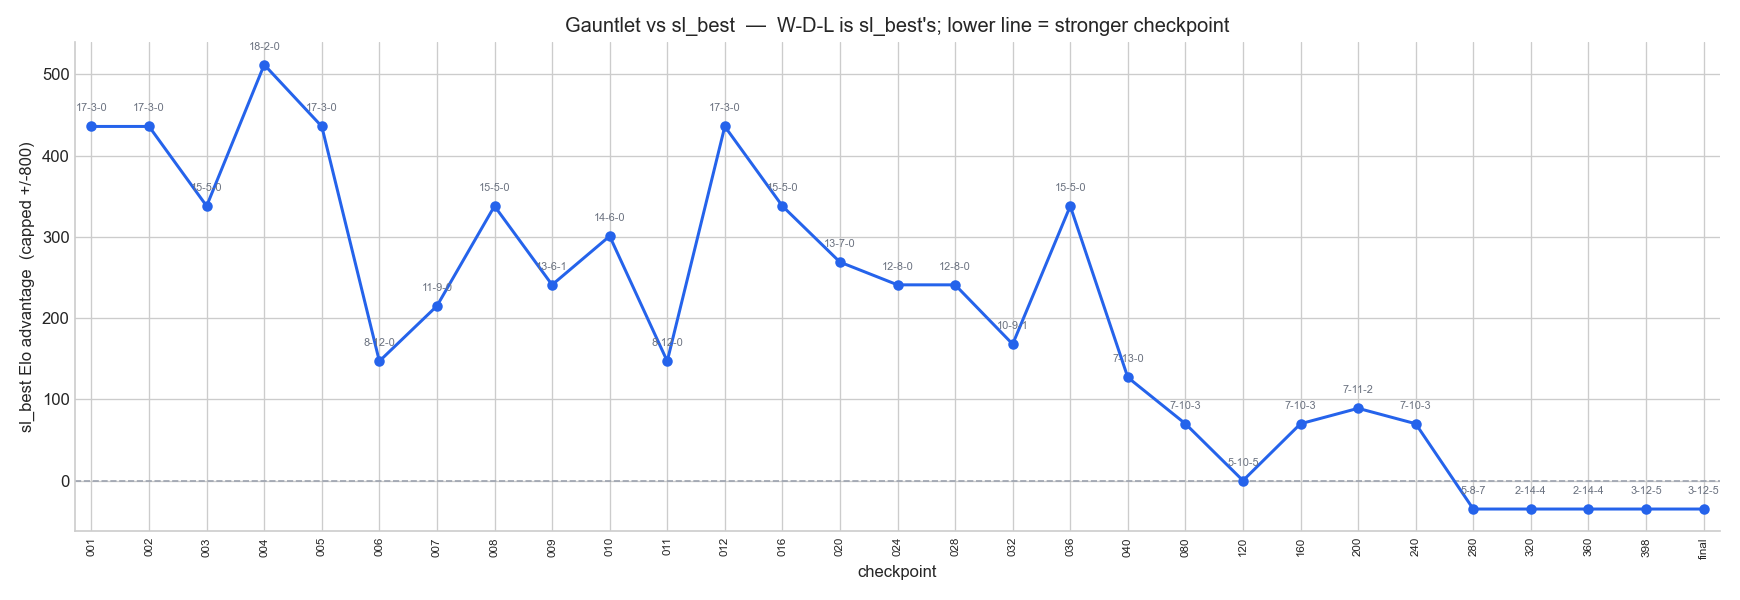
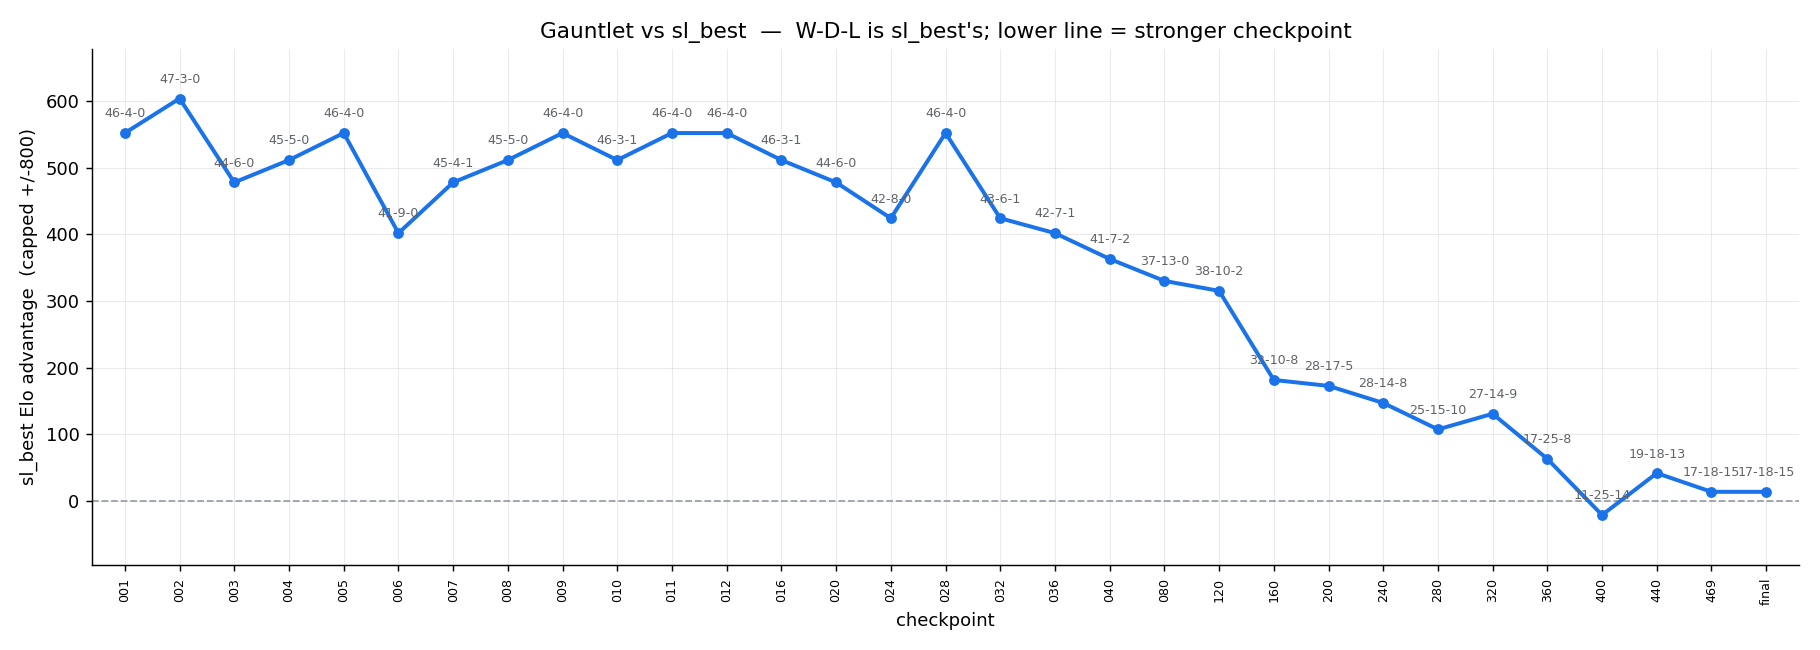
new gauntlet

diff --git a/supervised_learning/gauntlet.py b/supervised_learning/gauntlet.py
@@ -1,0 +1,227 @@
+"""
+Gauntlet: the current best supervised net vs *every* training checkpoint of its
+run, raw policy, one match each — plotted as an Elo-advantage curve.
+
+This is the "did later training help or hurt?" picture. `16_sl_best` is the net
+we kept; here it plays a full match against each `sl_XXX` snapshot of the run
+that produced it. A checkpoint that scores well against sl_best (pulling the
+line *down*) is one sl_best isn't clearly better than.
+
+Move selection is **raw** (argmax of the legal-masked policy, no search) — the
+most sensitive probe of what each net actually learned. The match machinery
+(random openings, colour-reversed pairs, PGN output, scoring) is imported
+straight from compare_nets.py so this stays a thin driver over the validated
+path; see that file and [[net-comparison-eval-workflow]].
+
+Each match is 50 games: OPENINGS random 3-ply openings, each played twice with
+colours swapped (25 * 2 = 50). The y-axis is sl_best's Elo advantage from the
+match score, elo = -400*log10(1/score - 1), capped +/-ELO_CAP.
+
+Runs are resumable: results are appended to a JSON as each checkpoint finishes,
+and re-running skips checkpoints already in it. Usage:
+
+    python supervised_learning/gauntlet.py                 # run all, skip done
+    python supervised_learning/gauntlet.py --force         # replay everything
+    python supervised_learning/gauntlet.py --only 040 120  # just these labels
+    python supervised_learning/gauntlet.py --plot-only     # rebuild plot from JSON
+
+Edit the CONFIG block below to change counts / paths.
+"""
+
+import argparse
+import json
+import math
+import os
+import re
+import sys
+
+# --- path setup (mirror compare_nets) so `import compare_nets` resolves -------
+_HERE = os.path.dirname(os.path.abspath(__file__))
+REPO_ROOT = os.path.normpath(os.path.join(_HERE, ".."))
+for _p in (REPO_ROOT, _HERE):
+    if _p not in sys.path:
+        sys.path.insert(0, _p)
+
+# ============================ CONFIG — edit, then run ============================
+BEST = os.path.join(REPO_ROOT, "16_sl_best.weights.h5")   # the net we kept
+CKPT_DIR = REPO_ROOT                                       # where sl_XXX live
+CKPT_GLOB = "sl_*.weights.h5"                              # training snapshots
+MODE = "raw"          # raw policy argmax (matches the reference graph)
+OPENINGS = 25         # 25 openings x 2 colours = 50 games per checkpoint
+OPENING_PLIES = 3     # random plies used to seed each opening
+SIMS = 150            # only used if MODE == "mcts"
+BATCH_SIZE = 16
+SEED = 7              # shared across checkpoints -> everyone faces the same openings
+ELO_CAP = 800.0       # clamp the score->Elo curve so a clean sweep isn't +inf
+SAVE_PGN = True       # keep each match's PGN (feedable to phase_acpl.py)
+OUT_DIR = os.path.join(REPO_ROOT, "supervised_learning", "results")
+RESULTS_JSON = os.path.join(OUT_DIR, "gauntlet_results.json")
+PLOT_PNG = os.path.join(OUT_DIR, "gauntlet_plot.png")
+PGN_DIR = os.path.join(OUT_DIR, "gauntlet_pgns")
+# ================================================================================
+
+# compare_nets does the path/chdir setup at import and pulls in TF; reuse its
+# validated, already-tested match code rather than duplicating it here.
+from compare_nets import load_net, run_match, save_pgn  # noqa: E402
+from helpers.converter import Converter  # noqa: E402
+
+
+def checkpoint_label(path: str) -> str:
+    """`.../sl_040.weights.h5` -> `040`, `.../sl_final.weights.h5` -> `final`."""
+    base = os.path.basename(path)
+    base = re.sub(r"\.weights\.h5$", "", base)
+    return re.sub(r"^sl_", "", base)
+
+
+def label_sort_key(label: str):
+    """Numeric checkpoints in order; non-numeric (e.g. `final`) sort to the end."""
+    return (0, int(label)) if label.isdigit() else (1, label)
+
+
+def find_checkpoints() -> list[str]:
+    import glob
+    paths = glob.glob(os.path.join(CKPT_DIR, CKPT_GLOB))
+    # exclude the reference net itself if the glob ever reaches it
+    best_base = os.path.basename(BEST)
+    paths = [p for p in paths if os.path.basename(p) != best_base]
+    return sorted(paths, key=lambda p: label_sort_key(checkpoint_label(p)))
+
+
+def elo_from_score(score: float, cap: float) -> float:
+    """sl_best's Elo advantage from its match score, clamped to +/-cap."""
+    if score <= 0.0:
+        return -cap
+    if score >= 1.0:
+        return cap
+    elo = -400.0 * math.log10(1.0 / score - 1.0)
+    return max(-cap, min(cap, elo))
+
+
+def load_results() -> dict:
+    if os.path.exists(RESULTS_JSON):
+        with open(RESULTS_JSON) as f:
+            return json.load(f)
+    return {}
+
+
+def save_results(results: dict) -> None:
+    os.makedirs(OUT_DIR, exist_ok=True)
+    with open(RESULTS_JSON, "w") as f:
+        json.dump(results, f, indent=2, sort_keys=True)
+
+
+def match_record(scores: list[float], label: str, path: str) -> dict:
+    n = len(scores)
+    wins = sum(1 for s in scores if s == 1.0)
+    draws = sum(1 for s in scores if s == 0.5)
+    losses = sum(1 for s in scores if s == 0.0)
+    score = sum(scores) / n if n else 0.0
+    return {
+        "label": label,
+        "path": os.path.relpath(path, REPO_ROOT).replace("\\", "/"),
+        "games": n,
+        "wins": wins,
+        "draws": draws,
+        "losses": losses,
+        "score": score,
+        "elo": elo_from_score(score, ELO_CAP),
+    }
+
+
+def make_plot(results: dict, out_png: str) -> None:
+    import matplotlib
+    matplotlib.use("Agg")
+    import matplotlib.pyplot as plt
+
+    labels = sorted(results, key=label_sort_key)
+    xs = list(range(len(labels)))
+    elos = [results[l]["elo"] for l in labels]
+
+    fig, ax = plt.subplots(figsize=(14, 5))
+    ax.axhline(0.0, ls="--", lw=1, color="#9aa0a6")
+    ax.plot(xs, elos, "-o", color="#1a73e8", lw=2.2, markersize=5,
+            markerfacecolor="#1a73e8", markeredgecolor="#1a73e8")
+
+    for x, l in zip(xs, labels):
+        r = results[l]
+        ax.annotate(f"{r['wins']}-{r['draws']}-{r['losses']}", (x, r["elo"]),
+                    textcoords="offset points", xytext=(0, 7),
+                    ha="center", va="bottom", fontsize=7, color="#5f6368")
+
+    ax.set_xticks(xs)
+    ax.set_xticklabels(labels, rotation=90, fontsize=7)
+    ax.set_xlabel("checkpoint")
+    ax.set_ylabel(f"sl_best Elo advantage  (capped +/-{int(ELO_CAP)})")
+    ax.set_title("Gauntlet vs sl_best  —  W-D-L is sl_best's; "
+                 "lower line = stronger checkpoint")
+    ax.grid(True, axis="both", alpha=0.25, lw=0.6)
+    ax.margins(x=0.02, y=0.12)
+    for spine in ("top", "right"):
+        ax.spines[spine].set_visible(False)
+
+    fig.tight_layout()
+    os.makedirs(os.path.dirname(out_png), exist_ok=True)
+    fig.savefig(out_png, dpi=130)
+    print(f"  wrote {out_png}")
+
+
+def main():
+    ap = argparse.ArgumentParser(description="Best-net gauntlet vs training checkpoints.")
+    ap.add_argument("--force", action="store_true",
+                    help="replay checkpoints already present in the results JSON")
+    ap.add_argument("--plot-only", action="store_true",
+                    help="rebuild the plot from the results JSON without playing")
+    ap.add_argument("--only", nargs="+", metavar="LABEL",
+                    help="only these checkpoint labels, e.g. --only 040 120 final")
+    args = ap.parse_args()
+
+    results = load_results()
+
+    if args.plot_only:
+        if not results:
+            sys.exit(f"no results in {RESULTS_JSON} to plot")
+        make_plot(results, PLOT_PNG)
+        return
+
+    checkpoints = find_checkpoints()
+    if args.only:
+        wanted = set(args.only)
+        checkpoints = [p for p in checkpoints if checkpoint_label(p) in wanted]
+    if not checkpoints:
+        sys.exit(f"no checkpoints matched {CKPT_GLOB} in {CKPT_DIR}")
+
+    print(f"Loading best net: {BEST}")
+    best = load_net(BEST)
+    converter = Converter()
+
+    for i, ckpt in enumerate(checkpoints, 1):
+        label = checkpoint_label(ckpt)
+        if label in results and not args.force:
+            r = results[label]
+            print(f"[{i}/{len(checkpoints)}] {label}: cached "
+                  f"({r['wins']}-{r['draws']}-{r['losses']}, Elo {r['elo']:+.0f}) — skip")
+            continue
+
+        print(f"\n[{i}/{len(checkpoints)}] === sl_best vs {label} "
+              f"({MODE}, {OPENINGS} openings -> {2 * OPENINGS} games) ===")
+        net = load_net(ckpt)
+        # A = best, B = checkpoint; run_match returns A's (=best's) scores.
+        best_scores, games = run_match(
+            best, net, "sl_best", label, converter, MODE, SIMS,
+            BATCH_SIZE, OPENINGS, OPENING_PLIES, SEED,
+        )
+        rec = match_record(best_scores, label, ckpt)
+        results[label] = rec
+        save_results(results)  # checkpoint-by-checkpoint so a crash loses at most one
+        print(f"  -> sl_best {rec['wins']}-{rec['draws']}-{rec['losses']}  "
+              f"score {rec['score']:.3f}  Elo {rec['elo']:+.0f}")
+
+        if SAVE_PGN:
+            save_pgn(games, os.path.join(PGN_DIR, f"sl_best_vs_{label}.pgn"))
+
+    make_plot(results, PLOT_PNG)
+    print(f"\nDone. Results: {RESULTS_JSON}")
+
+
+if __name__ == "__main__":
+    main()

diff --git a/test.py b/test.py
@@ -1,0 +1,119 @@
+import chess, numpy as np
+from helpers.converter import Converter
+from monte_carlo_tree_search.mcts_v2 import MCTS
+from monte_carlo_tree_search.nodes_and_edges_v2 import Node
+
+def _ctx():
+    net = globals().get("_NET")
+    if net is None:
+        raise RuntimeError("Run the play() cell first so _NET is set.")
+    return net, (getattr(net, "_search_converter", None) or Converter())
+
+def _val(net, conv, board):
+    """Value head: (scalar win-loss, wdl) from side-to-move perspective."""
+    _, wdl = net.predict(conv.board_to_input_tensor(board))
+    wdl = np.asarray(wdl, float)
+    return float(wdl[0] - wdl[2]), wdl
+
+def _search(net, conv, board, sims, c_puct, bs=16):
+    mcts = MCTS(network=net, converter=conv, num_simulations=sims, c_puct=c_puct)
+    r = Node(board.copy())
+    mcts.search_batched(r, add_noise=False, batch_size=bs)
+    return r
+
+def _parse(board, mv):
+    try: return board.parse_san(mv)
+    except ValueError: return chess.Move.from_uci(mv)
+
+def _pv(net, conv, board, node, depth):
+    """Most-visited path: per-ply move, visits, backed-up Q, raw value head."""
+    line, b = [], board.copy()
+    for _ in range(depth):
+        if not node.edges: break
+        e = max(node.edges, key=lambda x: x.N)
+        raw, _ = _val(net, conv, b)
+        line.append(dict(san=b.san(e.move), N=e.N, Q=e.Q, raw=raw))
+        b.push(e.move); node = e.child_node
+        if node is None: break
+    return line
+
+def _print_pv(title, line):
+    print(title)
+    print(f"    {'mv':<7}{'N':>6}{'Q(search)':>11}{'raw(value)':>12}   note")
+    for p in line:
+        disagree = abs(p['Q'])>0.15 and abs(p['raw'])>0.15 and (p['Q']>0)!=(p['raw']>0)
+        note = "<-- value head & search DISAGREE" if disagree else ""
+        print(f"    {p['san']:<7}{p['N']:>6}{p['Q']:>+11.3f}{p['raw']:>+12.3f}   {note}")
+
+def analyze(fen, blunder=None, c_pucts=(0.5,1.5,3.0,6.0), sims=(100,400,1000),
+            deep_c_puct=1.5, deep_sims=1000, top=10, pv_depth=10, bs=16):
+    net, conv = _ctx()
+    base = chess.Board(fen)
+    bmove = _parse(base, blunder) if blunder else None
+    turn = "White" if base.turn else "Black"
+
+    # ---- static root read ----
+    v0, wdl0 = _val(net, conv, base)
+    print("="*74)
+    print(f"{turn} to move   FEN {fen}")
+    print(f"value head  W/D/L {wdl0[0]*100:4.0f}/{wdl0[1]*100:4.0f}/{wdl0[2]*100:4.0f}"
+          f"   scalar {v0:+.3f}")
+    r0 = Node(base.copy()); r0.expand(net, conv)
+    pol = sorted(r0.edges, key=lambda e: e.P, reverse=True)
+    print("\npolicy head — top priors:")
+    for e in pol[:top]:
+        tag = "  <-- BLUNDER" if bmove and e.move==bmove else ""
+        print(f"    {base.san(e.move):<7}{e.P*100:5.1f}%{tag}")
+    if bmove and bmove not in [e.move for e in pol[:top]]:
+        be = next(e for e in pol if e.move==bmove)
+        print(f"    ... blunder {base.san(bmove)} ranks {pol.index(be)+1}/{len(pol)}"
+              f" at {be.P*100:.2f}%")
+
+    # ---- sweep grid ----
+    if bmove:
+        print("\n" + "="*74)
+        print("SWEEP  c_puct (rows) x sims (cols)")
+        print("cell = chosenMove | blunderN%/blunderQ   ('*' = blunder was chosen)\n")
+        corner = "cpuct|sims"
+        head = f"{corner:>10}" + "".join(f"{s:>23d}" for s in sims)
+        print(head); print("-"*len(head))
+        for c in c_pucts:
+            row = f"{c:>10.2f}"
+            for s in sims:
+                r = _search(net, conv, base, s, c, bs)
+                tot = sum(e.N for e in r.edges) or 1
+                best = max(r.edges, key=lambda e: e.N)
+                be = next((e for e in r.edges if e.move==bmove), None)
+                npct = 100*be.N/tot if be else 0.0
+                q = be.Q if be else float("nan")
+                star = "*" if (be and best.move==bmove) else ""
+                row += f"{base.san(best.move)+'|'+f'{npct:3.0f}%/{q:+.2f}'+star:>23}"
+            print(row)
+
+    # ---- deep dive ----
+    print("\n" + "="*74)
+    print(f"DEEP DIVE  c_puct={deep_c_puct}  sims={deep_sims}")
+    root = _search(net, conv, base, deep_sims, deep_c_puct, bs)
+    edges = sorted(root.edges, key=lambda e: e.N, reverse=True)
+    tot = sum(e.N for e in edges) or 1
+    print(f"\nroot edges (top {top}):  move / N / N% / Q / P")
+    for e in edges[:top]:
+        tag = "  <-- BLUNDER" if bmove and e.move==bmove else ""
+        print(f"    {base.san(e.move):<7}{e.N:6d}{100*e.N/tot:6.1f}%"
+              f"{e.Q:+8.3f}{e.P*100:6.1f}%{tag}")
+
+    print()
+    _print_pv("PRINCIPAL VARIATION (search's chosen line):",
+              _pv(net, conv, base, root, pv_depth))
+
+    if bmove:
+        be = next((e for e in root.edges if e.move==bmove), None)
+        if be and be.child_node is not None:
+            b2 = base.copy(); b2.push(bmove)
+            head = [dict(san=base.san(bmove), N=be.N, Q=be.Q, raw=v0)]
+            print()
+            _print_pv(f"LINE AFTER THE BLUNDER {base.san(bmove)} — what search expects:",
+                      head + _pv(net, conv, b2, be.child_node, pv_depth-1))
+
+# usage, e.g. position right before ...Kf8:
+analyze("2kr4/1pp2p2/p6Q/2p1p2b/2P1P2q/8/PPP2PPN/4R1K1 b - - 0 22", "f6")
